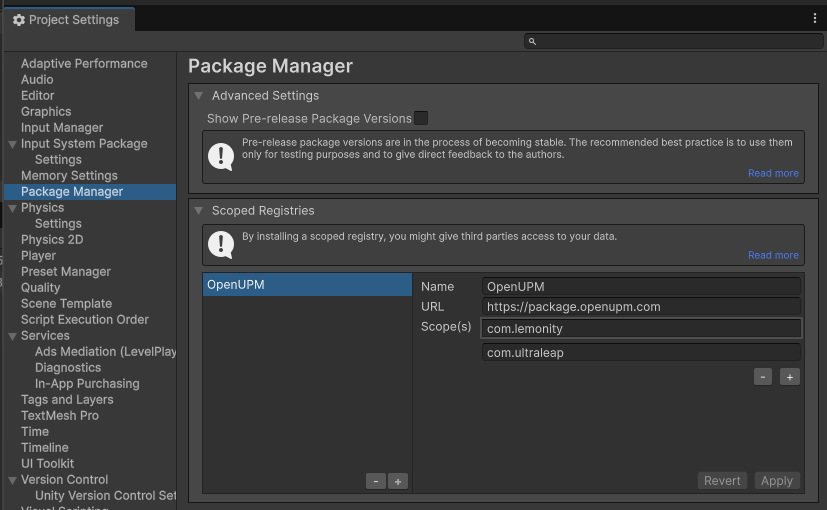
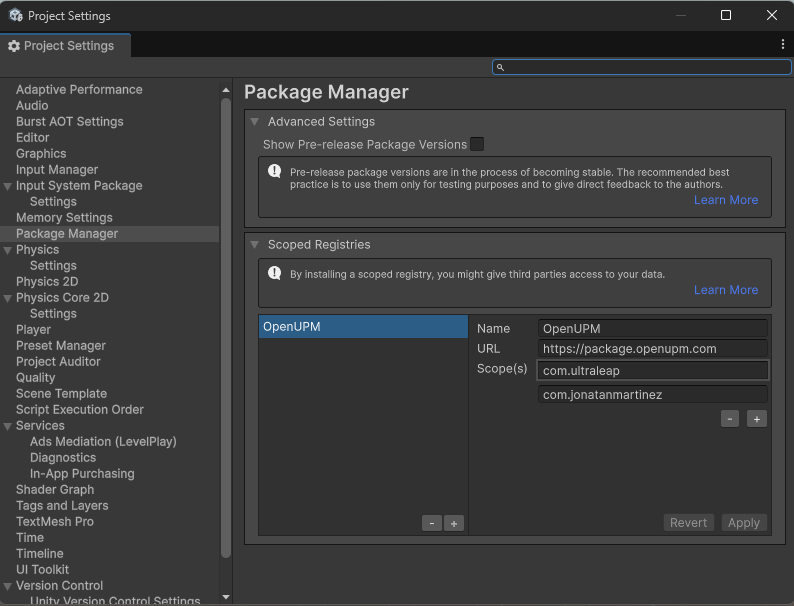
Add changelog and package author information

diff --git a/CHANGELOG.md b/CHANGELOG.md
@@ -1,0 +1,29 @@
+# Changelog
+All notable changes to the Lemonity packages will be documented in this file.
+
+## [2.1.1] - 2026-06-19
+
+### Fixed
+- Small artifacts due to rendering grid and workspace out of bounds
+
+
+## [2.1.0] - 2026-06-18
+
+### Added
+- UI button to install Ultraleap provider
+
+### Changed
+- Published Lemonity packages under the `com.jonatanmartinez.lemonity.*` package namespace.
+
+
+## [2.0.0] - 2026-06-16
+
+### Added
+- Support for Hyperion Ultraleap software
+
+### Changed
+- Refactor plugin from `.unitypackage` to `UPM`
+
+### Fixed
+- Auto-scale feature when scene is empty
+

diff --git a/README.md b/README.md
@@ -20,15 +20,15 @@ Navigate your Unity scene using bare hands. Lemonity is a Unity Editor extension
 2. Add the **OpenUPM** scoped registry in **Edit > Project Settings > Package Manager**:
     - **Name:** `OpenUPM`
     - **URL:** `https://package.openupm.com`
-    - **Scopes:** `com.lemonity`, `com.ultraleap`
+    - **Scopes:** `com.jonatanmartinez`, `com.ultraleap`
 
     ![Scoped registries configuration](docs/images/scoped_registries.png)
 
 
 3. Add the following packages to your Unity project via the Package Manager:
-   - `com.lemonity.editor`
-   - `com.lemonity.provider.ultraleap`
-   - `com.lemonity.core`
+   - `com.jonatanmartinez.lemonity.editor`
+   - `com.jonatanmartinez.lemonity.provider.ultraleap`
+   - `com.jonatanmartinez.lemonity.core`
    - `com.ultraleap.tracking`
     
     ![Unity Package Manager](docs/images/package_manager.png)
@@ -47,9 +47,9 @@ Lemonity is organized as three Unity packages:
 
 | Package | Description |
 |---|---|
-| `com.lemonity.core` | Provider-agnostic runtime: motion styles, gesture controllers, tracking abstraction, options |
-| `com.lemonity.editor` | Unity Editor integration: scene view hooks, options window, debug window |
-| `com.lemonity.provider.ultraleap` | Ultraleap/Hyperion adapter that implements `HandTracking` and self-registers on editor load |
+| `com.jonatanmartinez.lemonity.core` | Provider-agnostic runtime: motion styles, gesture controllers, tracking abstraction, options |
+| `com.jonatanmartinez.lemonity.editor` | Unity Editor integration: scene view hooks, options window, debug window |
+| `com.jonatanmartinez.lemonity.provider.ultraleap` | Ultraleap/Hyperion adapter that implements `HandTracking` and self-registers on editor load |
 
 ### Provider pattern
 